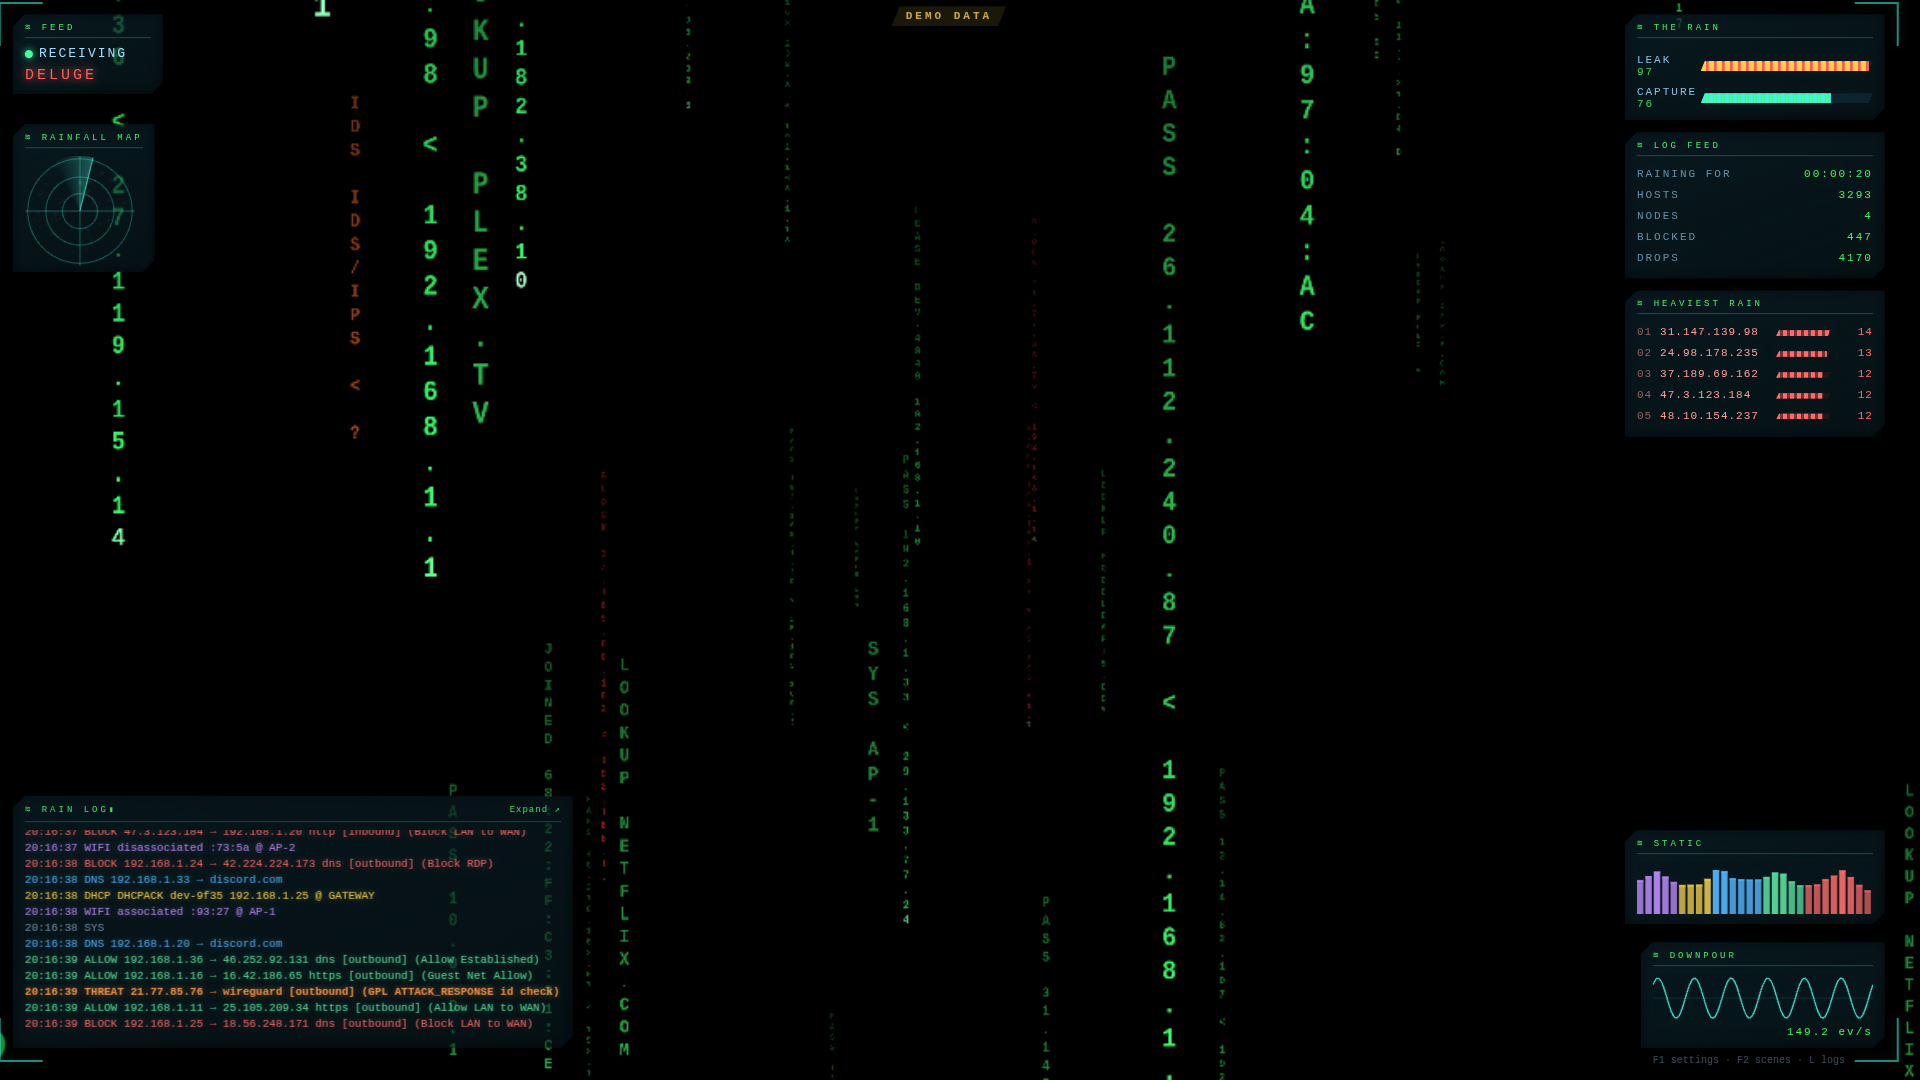
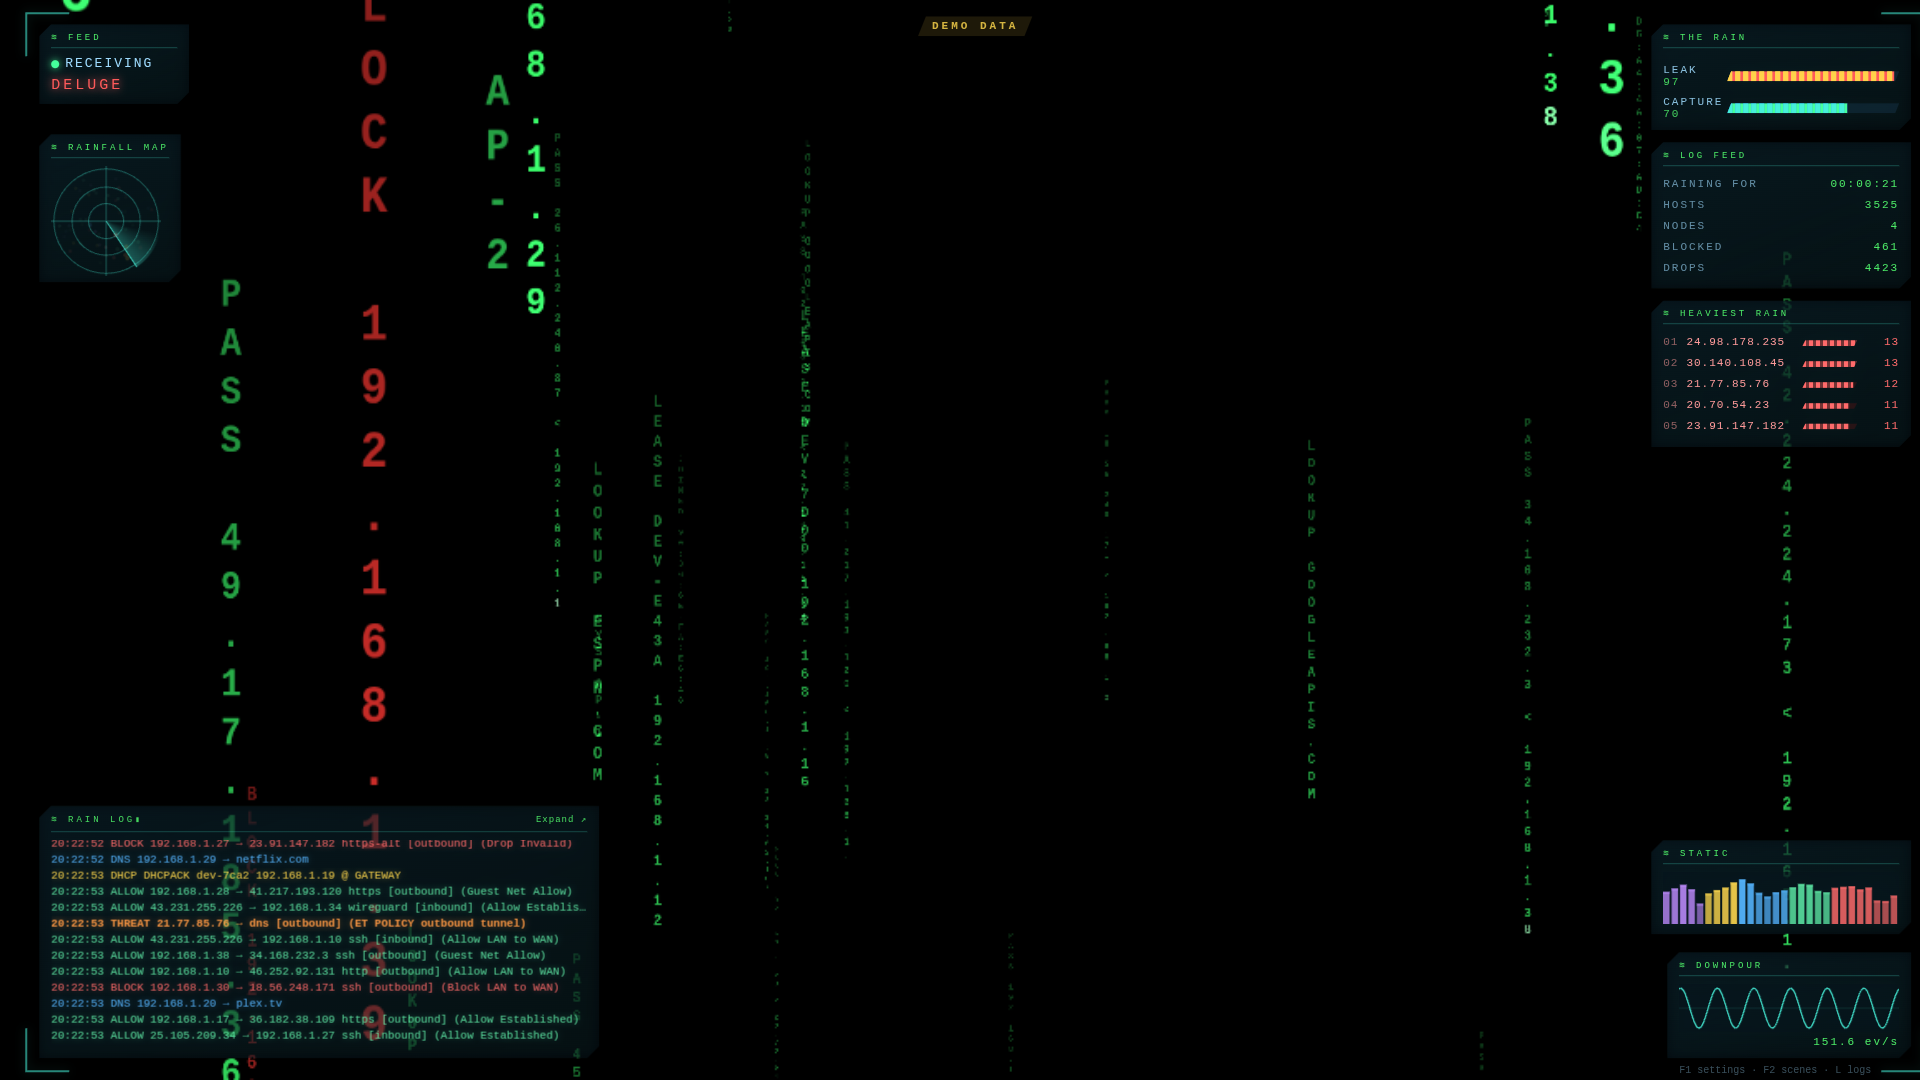
the rain: slow the dive, pack the field
half the fly speed (drizzle ~20s to cross, deluge ~5s) and 96 columns
at high/ultra (40 low, 64 medium) - the field should fill the frame,
not dot it

diff --git a/web/src/themes/rain/settings.ts b/web/src/themes/rain/settings.ts
@@ -26,15 +26,15 @@ export const RAIN_DEFAULTS = {
 
   // scene budgets = the HIGH preset
   rFarLayers: 2,             // procedural depth layers behind the log (fall mode)
-  rColumns: 64,              // columns in the 3D field (fly mode)
+  rColumns: 96,              // columns in the 3D field (fly mode)
 };
 
 export type RainSettings = CoreSettings & typeof RAIN_DEFAULTS;
 
 export const RAIN_BUDGETS: Budgets = {
-  low: { rFarLayers: 0, rFlicker: false, rDensity: 0.6, rColumns: 24 },
-  medium: { rFarLayers: 1, rFlicker: true, rDensity: 0.8, rColumns: 48 },
-  high: { rFarLayers: 2, rFlicker: true, rDensity: 1, rColumns: 64 },
+  low: { rFarLayers: 0, rFlicker: false, rDensity: 0.6, rColumns: 40 },
+  medium: { rFarLayers: 1, rFlicker: true, rDensity: 0.8, rColumns: 64 },
+  high: { rFarLayers: 2, rFlicker: true, rDensity: 1, rColumns: 96 },
   ultra: { rFarLayers: 3, rFlicker: true, rDensity: 1.2, rColumns: 96 },
 };
 

diff --git a/web/src/themes/rain/index.ts b/web/src/themes/rain/index.ts
@@ -117,7 +117,7 @@ async function create(host: ThemeHost<typeof RAIN_DEFAULTS>, init: RendererInit)
 
     if (mode === 'fly') {
       // the dive is weather too: drizzle drifts through, deluge falls through
-      const flySpeed = settings.rWeather ? 0.45 + wet * 1.35 : 0.6;
+      const flySpeed = settings.rWeather ? 0.22 + wet * 0.68 : 0.3;
       const s = scene as Rain3D;
       s.step(dt, { flySpeed, density: settings.rDensity, trail: settings.rTrail });
       s.uniforms(f.t, {
